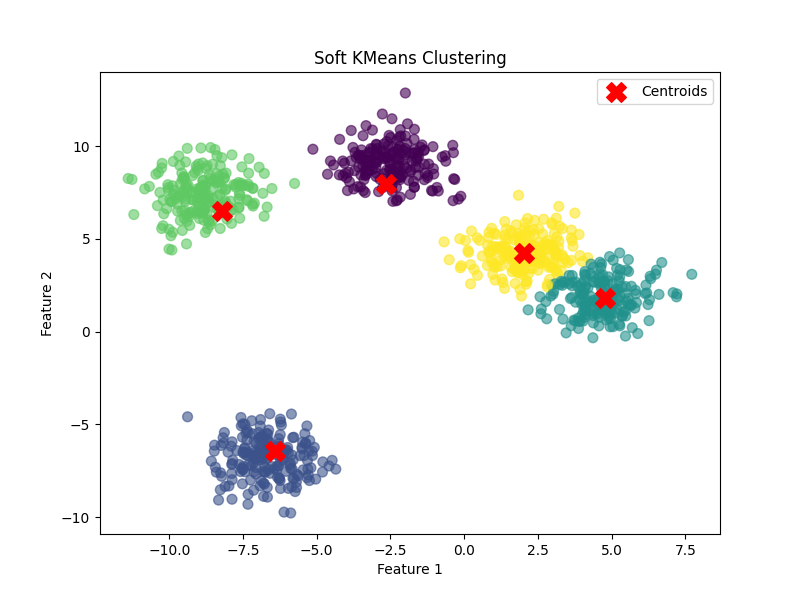
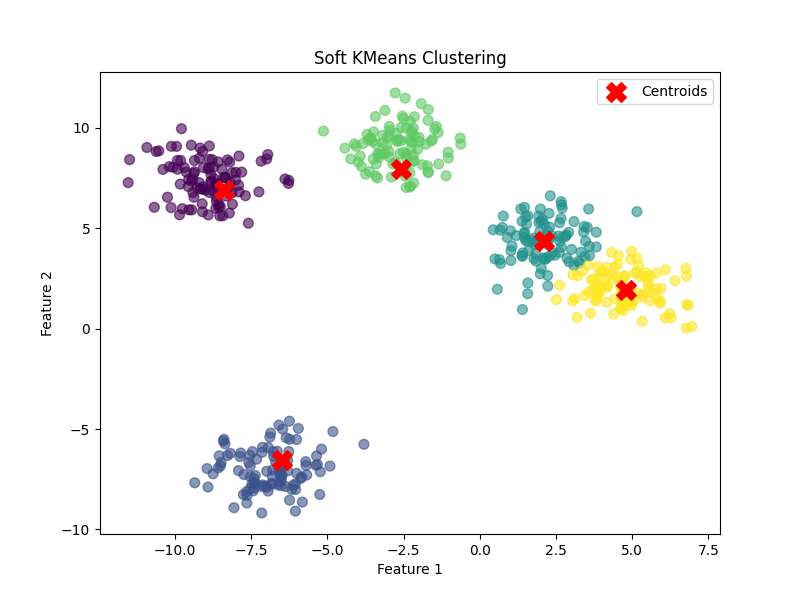
encapsulation

diff --git a/main.py b/main.py
@@ -1,68 +1,18 @@
-import torch
-import torch.nn as nn
-import torch.nn.functional as F
-from sklearn.datasets import make_blobs
-import matplotlib.pyplot as plt
-import numpy as np
+from create_dataset import create_dataset
+from train import train_soft_kmeans
+from visualize import plot_results
 
-# Define the SoftKMeans class as provided
-class SoftKMeans(nn.Module):
-    def __init__(self, num_clusters, feature_dim, temperature=1.0):
-        super(SoftKMeans, self).__init__()
-        self.num_clusters = num_clusters
-        self.feature_dim = feature_dim
-        self.temperature = temperature
-        self.centroids = nn.Parameter(torch.randn(num_clusters, feature_dim))
+if __name__ == "__main__":
+    # Create dataset
+    X, y_true = create_dataset(n_samples=500, n_features=2, n_clusters=5, random_state=42)
 
-    def forward(self, x):
-        distance_matrix = torch.cdist(x, self.centroids)
-        soft_assignments = F.softmax(-distance_matrix / self.temperature, dim=1)
-        return soft_assignments
+    # Train the model
+    num_clusters = 5
+    num_epochs = 1000
+    temperature = 1.0
+    learning_rate = 0.01
+    model = train_soft_kmeans(X, num_clusters, num_epochs, temperature, learning_rate)
 
-    def compute_loss(self, x, soft_assignments):
-        expanded_x = x.unsqueeze(1)
-        expanded_centroids = self.centroids.unsqueeze(0)
-        distances = torch.sum((expanded_x - expanded_centroids) ** 2, dim=2)
-        loss = torch.sum(soft_assignments * distances)
-        return loss / x.size(0)
+    # Plot the results
+    plot_results(X, model)
 
-# Create synthetic dataset
-n_samples = 1000
-n_features = 2
-n_clusters = 5
-
-X, y_true = make_blobs(n_samples=n_samples, centers=n_clusters, n_features=n_features, random_state=42)
-X = torch.tensor(X, dtype=torch.float32)
-
-# Initialize SoftKMeans
-num_clusters = 5
-temperature = 1.0
-soft_kmeans = SoftKMeans(num_clusters=num_clusters, feature_dim=n_features, temperature=temperature)
-
-# Training
-optimizer = torch.optim.Adam(soft_kmeans.parameters(), lr=0.01)
-num_epochs = 1000
-
-for epoch in range(num_epochs):
-    optimizer.zero_grad()
-    soft_assignments = soft_kmeans(X)
-    loss = soft_kmeans.compute_loss(X, soft_assignments)
-    loss.backward()
-    optimizer.step()
-
-    if (epoch + 1) % 50 == 0:
-        print(f'Epoch {epoch+1}/{num_epochs}, Loss: {loss.item():.4f}')
-
-# Get the final soft assignments
-soft_assignments = soft_kmeans(X).detach().numpy()
-hard_assignments = np.argmax(soft_assignments, axis=1)
-
-# Plot the results
-plt.figure(figsize=(8, 6))
-plt.scatter(X[:, 0], X[:, 1], c=hard_assignments, cmap='viridis', marker='o', s=50, alpha=0.6)
-plt.scatter(soft_kmeans.centroids.detach().numpy()[:, 0], soft_kmeans.centroids.detach().numpy()[:, 1], c='red', marker='X', s=200, label='Centroids')
-plt.title('Soft KMeans Clustering')
-plt.xlabel('Feature 1')
-plt.ylabel('Feature 2')
-plt.legend()
-plt.show()

diff --git a/train.py b/train.py
@@ -1,0 +1,40 @@
+import torch
+import torch.nn as nn
+import torch.nn.functional as F
+
+class SoftKMeans(nn.Module):
+    def __init__(self, num_clusters, feature_dim, temperature=1.0):
+        super(SoftKMeans, self).__init__()
+        self.num_clusters = num_clusters
+        self.feature_dim = feature_dim
+        self.temperature = temperature
+        self.centroids = nn.Parameter(torch.randn(num_clusters, feature_dim))
+
+    def forward(self, x):
+        distance_matrix = torch.cdist(x, self.centroids)
+        soft_assignments = F.softmax(-distance_matrix / self.temperature, dim=1)
+        return soft_assignments
+
+    def compute_loss(self, x, soft_assignments):
+        expanded_x = x.unsqueeze(1)
+        expanded_centroids = self.centroids.unsqueeze(0)
+        distances = torch.sum((expanded_x - expanded_centroids) ** 2, dim=2)
+        loss = torch.sum(soft_assignments * distances)
+        return loss / x.size(0)
+
+def train_soft_kmeans(X, num_clusters, num_epochs=300, temperature=1.0, learning_rate=0.01):
+    feature_dim = X.size(1)
+    soft_kmeans = SoftKMeans(num_clusters=num_clusters, feature_dim=feature_dim, temperature=temperature)
+    optimizer = torch.optim.Adam(soft_kmeans.parameters(), lr=learning_rate)
+
+    for epoch in range(num_epochs):
+        optimizer.zero_grad()
+        soft_assignments = soft_kmeans(X)
+        loss = soft_kmeans.compute_loss(X, soft_assignments)
+        loss.backward()
+        optimizer.step()
+
+        if (epoch + 1) % 50 == 0:
+            print(f'Epoch {epoch+1}/{num_epochs}, Loss: {loss.item():.4f}')
+
+    return soft_kmeans

diff --git a/visualize.py b/visualize.py
@@ -1,0 +1,15 @@
+import matplotlib.pyplot as plt
+import numpy as np
+
+def plot_results(X, model):
+    soft_assignments = model(X).detach().numpy()
+    hard_assignments = np.argmax(soft_assignments, axis=1)
+    
+    plt.figure(figsize=(8, 6))
+    plt.scatter(X[:, 0], X[:, 1], c=hard_assignments, cmap='viridis', marker='o', s=50, alpha=0.6)
+    plt.scatter(model.centroids.detach().numpy()[:, 0], model.centroids.detach().numpy()[:, 1], c='red', marker='X', s=200, label='Centroids')
+    plt.title('Soft KMeans Clustering')
+    plt.xlabel('Feature 1')
+    plt.ylabel('Feature 2')
+    plt.legend()
+    plt.show()

diff --git a/create_dataset.py b/create_dataset.py
@@ -1,0 +1,7 @@
+import torch
+from sklearn.datasets import make_blobs
+
+def create_dataset(n_samples=300, n_features=2, n_clusters=3, random_state=42):
+    X, y_true = make_blobs(n_samples=n_samples, centers=n_clusters, n_features=n_features, random_state=random_state)
+    X = torch.tensor(X, dtype=torch.float32)
+    return X, y_true
